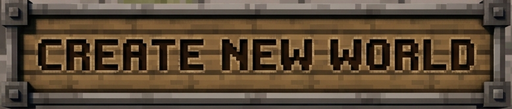
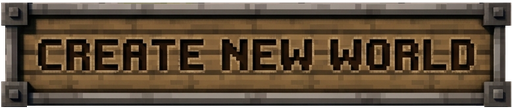
Cut the plank buttons to their frames, and glow along the cut
The buttons were cut from the owner's mock-ups as straight rectangles, which
kept the mock-up's stone (or, round the small ones, its wooden bar) in the
notches beside each corner bolt and made every button a square block. Each is
now cut to the frame itself: the bolt plates stand proud and the world shows
past them. The long planks share one measured outline; the small ones are cut
by flooding the background in from the edge until the iron stops it.

The hover and pick glow is the button's own silhouette in gold behind it,
where a rectangle would square the corners off again, and the pictures get
alpha-weighted mips like leaves so the cut edge does not darken when small.

Changed region(s): [[0.0, 0.0, 1.0, 1.0], [0.9688, 0.2202, 1.0, 0.7706]]

diff --git a/src/Driftwood.Client/Render/HudRenderer.cs b/src/Driftwood.Client/Render/HudRenderer.cs
@@ -873,7 +873,11 @@ public sealed class HudRenderer : IDisposable
         _sparkles = [.. _cursorTiles.Select(CursorArt.SparkleColours)];
         _shownCursorTiles = [.. _cursorTiles, .. _bareCursorTiles];
         _cursorArt = new BlockTextureArray(gl, _shownCursorTiles, CursorArt.Tile);
-        _menuButtons = new BlockTextureArray(gl, MenuButtonArt.Layers(), MenuButtonArt.Layer, smooth: true);
+        // Cut-out: the planks are cut to the frame's own shape (notches beside the corner bolts), so
+        // their mips are alpha-weighted like leaves' are, or the cut edge goes dark when drawn small.
+        var buttonLayers = MenuButtonArt.Layers();
+        _menuButtons = new BlockTextureArray(gl, buttonLayers, MenuButtonArt.Layer,
+            cutout: Enumerable.Repeat(true, buttonLayers.Length).ToArray(), smooth: true);
         _advance = TileGen.FontAdvance();
 
         _vao = _gl.GenVertexArray();
@@ -3904,6 +3908,18 @@ public sealed class HudRenderer : IDisposable
         var colour = lit ? new Vector4(1.22f, 1.14f, 0.98f, 1f)
             : hot ? new Vector4(1.12f, 1.07f, 0.98f, 1f)
             : new Vector4(0.92f, 0.92f, 0.92f, 1f);
+
+        // ⛳ The glow follows the frame's own cut (2026-11-04, the user: the corners are notched, not
+        // square): the same picture a little larger, behind, tinted far past white so it clamps to a
+        // gold silhouette — a rectangle round it would square the corners off again.
+        if (lit || hot)
+        {
+            var spread = lit ? 3f : 2f;
+            var gold = new Vector4(4f, 3.1f, 1.3f, lit ? 0.9f : 0.6f);
+            RectUv(_menuButtonQuads, x - spread, y - spread, w + spread * 2f, h + spread * 2f,
+                0f, 0f, 1f, MenuButtonArt.V(row.Art), gold, row.Art);
+        }
+
         RectUv(_menuButtonQuads, x, y, w, h, 0f, 0f, 1f, MenuButtonArt.V(row.Art), colour, row.Art);
 
         if (row.Edits is { } field && MenuButtonArt.FieldBox(row.Art) is var (bl, bt, br, bb))
@@ -3912,14 +3928,6 @@ public sealed class HudRenderer : IDisposable
             var boxY = y + h * bt;
             FieldText(screen, field, boxX, boxY, w * (br - bl), h * (bb - bt));
             ClippedZone(layout, ZoneKind.Field, i, boxX, boxY, w * (br - bl), h * (bb - bt));
-        }
-
-        if (lit || hot)
-        {
-            var gold = new Vector4(1f, 0.78f, 0.34f, lit ? 0.95f : 0.65f);
-            var halo = gold with { W = lit ? 0.30f : 0.18f };
-            Outline(_menuButtonGlow, x - 1.5f, y - 1.5f, w + 3f, h + 3f, 1.5f, gold);
-            Outline(_menuButtonGlow, x - 3f, y - 3f, w + 6f, h + 6f, 1.5f, halo);
         }
 
         ClippedZone(layout, ZoneKind.Row, i, x, y, w, h);
@@ -3967,14 +3975,6 @@ public sealed class HudRenderer : IDisposable
             var at = x + pad + TextWidth(text[from..field.Caret], glyph);
             Rect(_menuButtonGlow, at, ty - 1f, 1.5f, glyph + 2f, CarvedInk);
         }
-    }
-
-    private static void Outline(List<float> into, float x, float y, float w, float h, float t, Vector4 colour)
-    {
-        Rect(into, x, y, w, t, colour);
-        Rect(into, x, y + h - t, w, t, colour);
-        Rect(into, x, y + t, t, h - 2f * t, colour);
-        Rect(into, x + w - t, y + t, t, h - 2f * t, colour);
     }
 
     /// <summary>One row of the reworked menu: a heading, a setting, a field or a button.</summary>
